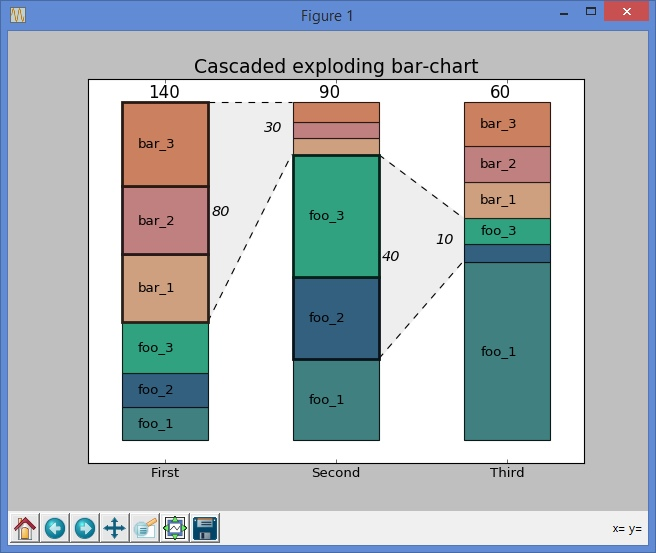
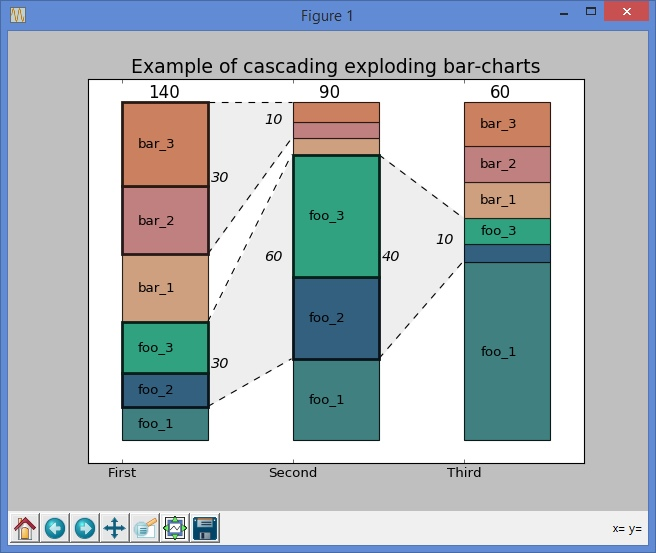
Allow for multiple ranges and exploding lines per bar chart. - implementation - code example - update example.jpg

diff --git a/cascadedexplodingbarcharts.py b/cascadedexplodingbarcharts.py
@@ -11,7 +11,7 @@ Create a cascade of two or more exploding bar-charts from data with controllable
 ## Features
 1. Size of bars in, and the total number of bar-charts is generated from data
 2. Hight of bars based on raw data, normalized or percentage (each bar normalized individually)
-3. A consecutive set of boxes in each bar can be given emphasis
+3. Show multiple labeled relationships between stacks
 4. Explosion lines to show relation between stacked bars
 5. The explosion wedge can have labels and a shaded background
 6. Stacked bars and boxes can have labels
@@ -36,12 +36,13 @@ have to do this before the call.
             See run_example() for detailed example of data structure
 
     emphasis: The entries in the bar-chart to emphasize and explode from and TO
-            It is a 3d array: A list of tripled, setting the range and the label
+            It is a 3d array: A list of triples, setting the range and the label
             The first range gives the emphasis in the source bar stack
             The second range gives the target for the explosion lines (starting
             from the emphasized range)
             e.g. To create the explosion lines in the graphical example you
             would use range: [[1,2,"EL"],[1,2,"EL"]] 
+            Use None for a tripled pair not wanting emphasis 
 
     bar_labels: An optional label to be printed above each stack bar-chart
             (BL in the graphical example)
@@ -122,13 +123,11 @@ def run_example():
             [[2,"foo_1", "#3F8080"],[.2,"foo_2", "#346080"], [.3,"foo_3", "#30A280"],
              [0.4,"bar_1", "#CFA080"], [0.4,"bar_2", "#C08080"], [0.5,"bar_3", "#CB8060"]]]
 
-    emphasis = [[[[3,5,"80"],[3,5,"30"]],],    
+    emphasis = [[[[1,2,"30"],[1,2,"60"]], [[4,5,"30"],[4,5,"10"]]],  #2 wedges with emphasis 
                 [[[1,2, "40"],[1,2, "10"]],],  
                 [None,],]    
     
     bar_labels = ["140", "90", "60"]
-
-
 
     ##############
     # Type setting
@@ -315,13 +314,14 @@ def explosion_line_y_top_and_bottom(data, emphasis):
     """
     top = 0.
     bottom = 0.   
+
     if emphasis is None:
         return   # early exit, but no return because, there might be emph on right
-    
+
     for i, (value, label, color) in enumerate(data):           
         top += value  # We need the top so always add  
         # If we have found the data index for the top box
-        if emphasis[-1] is i:    # If none it will never match and just
+        if emphasis[1] is i:    # If none it will never match and just
             break # fall out the loop
 
         # Now bottom box
@@ -496,9 +496,9 @@ def cascaded_exploding_barcharts(ax, data, emphasis, bar_labels,
     # Todo this -1 is ugly!! but needed for the explosion lines: I like the
     # location better at this place in the loop
     for idx in range(len(data_internal)-1):    
-                   
-        display_explosion(ax, data_internal, emphasis[idx][0],
-                          representation, chart_id=idx)
+        for emphasis_subset in emphasis[idx]:
+            display_explosion(ax, data_internal, emphasis_subset,
+                              representation, chart_id=idx)
 
 
         create_bar_chart_with_emphasis(ax, data_internal[idx+1], 
